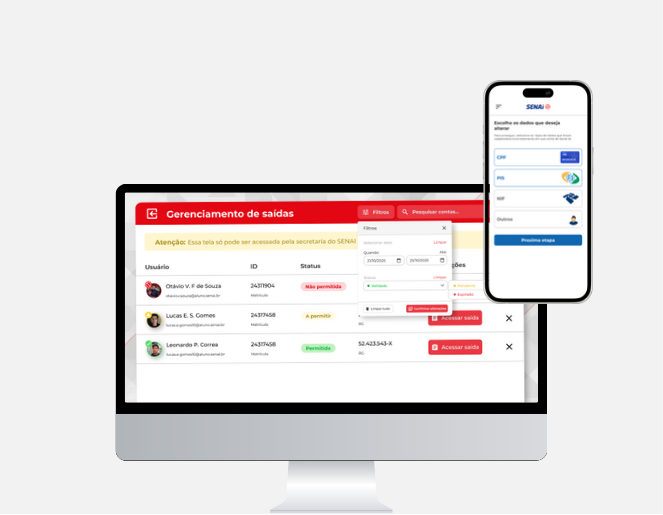
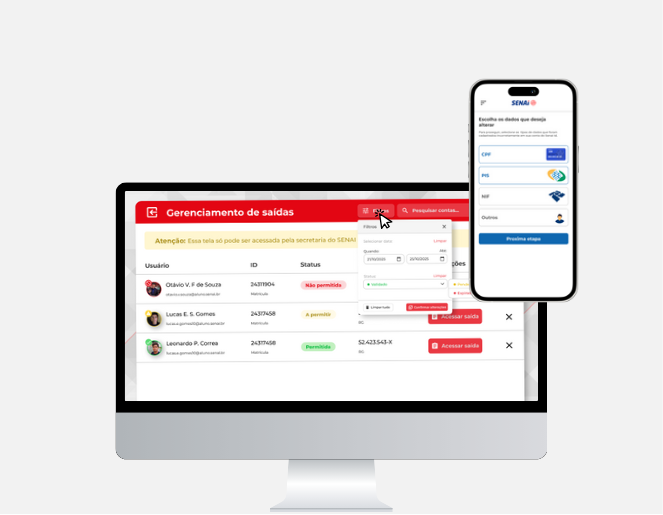
projectsSection Tittle position wrong

diff --git a/src/components/ui/SkillCard.jsx b/src/components/ui/SkillCard.jsx
@@ -1,64 +1,35 @@
-import React from "react";
-
 const SkillCard = ({ img, title, children, tech, version = "right" }) => {
-  // Classe base para o container de conteúdo (preto)
-  const contentBaseClasses =
-    "bg-black w-full md:w-1/2 text-white p-8 md:p-12 flex flex-col justify-center";
-
-  // Classe base para o container de imagem (branco)
-  const imageBaseClasses = "bg-white w-full md:w-1/2";
-
-  // Classe base para o container principal
-  // flex-col para mobile, md:flex-row para desktop, w-full e margin padronizada
-  const containerBaseClasses = "flex flex-col w-full mb-16";
-
-  // Estilos para o título (replicando a estética grande e ousada)
-  const titleClasses =
-    "text-5xl sm:text-6xl md:text-7xl font-semibold block mb-8";
-
-  // Estilos para a imagem
-  const imageClasses = "w-full h-full object-cover";
-
   if (version === "left") {
-    // Layout: Imagem (Esquerda) | Conteúdo (Direita)
     return (
-      <div className={`${containerBaseClasses} md:flex-row`}>
-        {/* Imagem (Esquerda) */}
-        <div className={imageBaseClasses}>
-          <img
-            src={img}
-            alt={`Imagem para ${title}`}
-            className={imageClasses}
-          />
+      <div className="flex justify-center w-full h-135 mb-50">
+        <div className={"bg-white h-full w-[50%]"}>
+          <img src={img} className="w-full h-full" />
         </div>
-
-        {/* Conteúdo (Direita) */}
-        <div className={contentBaseClasses}>
-          <span className={titleClasses}>{title}</span>
-          <p className="mb-12">{children}</p>
-          <p className="mt-auto mb-4 font-medium">Tecnologias:</p>
-          {/* O prop 'tech' deve ser um elemento React (ex: um div com tags) */}
+        <div className={"bg-black h-full w-[50%] text-white"}>
+          <span className="text-7xl font-semibold relative top-15 left-10">
+            {title}
+          </span>
+          <p className="relative top-45 ml-10 w-150">{children}</p>
+          <p className="mt-65 ml-10 font-medium">Tecnologias:</p>
           {tech}
         </div>
       </div>
     );
   }
-
-  // Layout Padrão (version === "right"): Conteúdo (Esquerda) | Imagem (Direita)
   return (
-    <div className={`${containerBaseClasses} md:flex-row-reverse`}>
-      {/* Conteúdo (Esquerda) */}
-      <div className={contentBaseClasses}>
-        {title && <span className={titleClasses}>{title}</span>}
-        <p className="mb-12">{children}</p>
-        <p className="mt-auto mb-4 font-medium">Tecnologias:</p>
-        {/* O prop 'tech' deve ser um elemento React (ex: um div com tags) */}
+    <div className="flex justify-center w-full h-135">
+      <div className={"bg-black h-full w-[50%]"}>
+        {title && (
+          <span className="text-7xl text-white font-semibold relative left-10 top-15">
+            {title}
+          </span>
+        )}
+        <p className="relative text-white top-45 ml-10 w-150">{children}</p>
+        <p className="mt-75 ml-10 text-white font-medium">Tecnologias:</p>
         {tech}
       </div>
-
-      {/* Imagem (Direita) */}
-      <div className={imageBaseClasses}>
-        <img src={img} alt={`Imagem para ${title}`} className={imageClasses} />
+      <div className={"bg-white h-full w-[50%] text-white"}>
+        <img src={img} className="w-full h-full" />
       </div>
     </div>
   );

diff --git a/src/components/sections/SkillSection.jsx b/src/components/sections/SkillSection.jsx
@@ -13,16 +13,16 @@ import Node from "/img/icon/node.webp";
 import Python from "/img/icon/python.png";
 import Express from "/img/icon/express.webp";
 import MySQL from "/img/icon/mySql.png";
-import MongoDB from "/img/icon/mongodb.png";
+import MongoDB from "/img/icon/mongoDb.png";
 
 
 import Frontend from "../../../public/img/frontend.png";
-import Image from "../../../public/img/senai-id.png"
+import Backend from "../../../public/img/backend.png";
 
 const SkillSection = () => {
   return (
-    <section id="habilidades-section">
-      <Section>
+    <section>
+      <Section id={"skill-section"}>
         <SkillCard
           version="left"
           img={Frontend}
@@ -31,7 +31,7 @@ const SkillSection = () => {
             "A minha especialidade atualmente é pro ramo de Front-end, aonde eu desenvolvi algumas habilidades incluindo o aprendizado de frameworks modernos, além de ficar responsável pelo desenvolvimento do Front-end do TCC"
           }
           tech={
-            <div className="flex ml-10 gap-1 mt-3">
+            <div className="flex ml-10 gap-1 mt-3 w-150">
               <TechItem img={React} children={"React"} />
               <TechItem img={Tailwind} children={"Tailwind"} />
               <TechItem img={Vite} children={"Vite"} />
@@ -44,17 +44,17 @@ const SkillSection = () => {
         <SkillCard
           version="right"
           title={"BACK-END"}
-          img={Image}
+          img={Backend}
           children={
             "Em algumas projeto pessoais e academicos eu desenvolvi parte do Backe-end, como a comunicação com API`S e até autenticação de usuários"
           }
           tech={
-            <div className="flex ml-10 gap-1 mt-3">
+            <div className="flex ml-10 gap-1 mt-3 w-150">
               <TechItem img={Node} children={"Node"} />
               <TechItem img={Python} children={"Python"} />
               <TechItem img={Express} children={"Express"} />
               <TechItem img={MySQL} children={"MySql"} />
-              <TechItem img={MongoDB} children={"MongoDB"} />
+              <TechItem img={MongoDB} children={"Mongo"} />
               <TechItem children={"Render"} />
             </div>
           }

diff --git a/src/components/layout/Section.jsx b/src/components/layout/Section.jsx
@@ -1,10 +1,10 @@
 import SectionTitle from "../ui/SectionTitle.jsx";
 
-const Section = ({ number, title, children }) => {
+const Section = ({ id, number, title, children }) => {
   return (
-    <section className="w-[75%] mx-auto">
-      <div className="w-full flex flex-col items-start text-left">
+    <section id={id} className="w-[75%] mx-auto">
         <SectionTitle number={number} title={title} />
+      <div className="w-full flex flex-col items-start text-left">
         <div className="w-full">{children}</div>
       </div>
     </section>

diff --git a/src/App.jsx b/src/App.jsx
@@ -3,6 +3,7 @@ import Background from "./components/layout/Background.jsx";
 import Header from "./components/layout/Header.jsx";
 import HeroSection from "./components/sections/HeroSection.jsx"
 import SkillSection from "./components/sections/SkillSection.jsx";
+import ProjectsSection from "./components/sections/ProjectsSection.jsx";
 
 function App() {
 
@@ -12,6 +13,7 @@ function App() {
       <Header />
       <HeroSection />
       <SkillSection />
+      <ProjectsSection />
     </>
   );
 }

diff --git a/src/components/sections/ProjectsSection.jsx b/src/components/sections/ProjectsSection.jsx
@@ -1,0 +1,12 @@
+import Section from "../layout/Section.jsx"
+
+const ProjectsSection = () => {
+    return (
+        <>
+            <Section id={"projetos"} number={"03"} title={"Projetos"}>
+            </Section>
+        </>
+    );
+}
+
+export default ProjectsSection;
